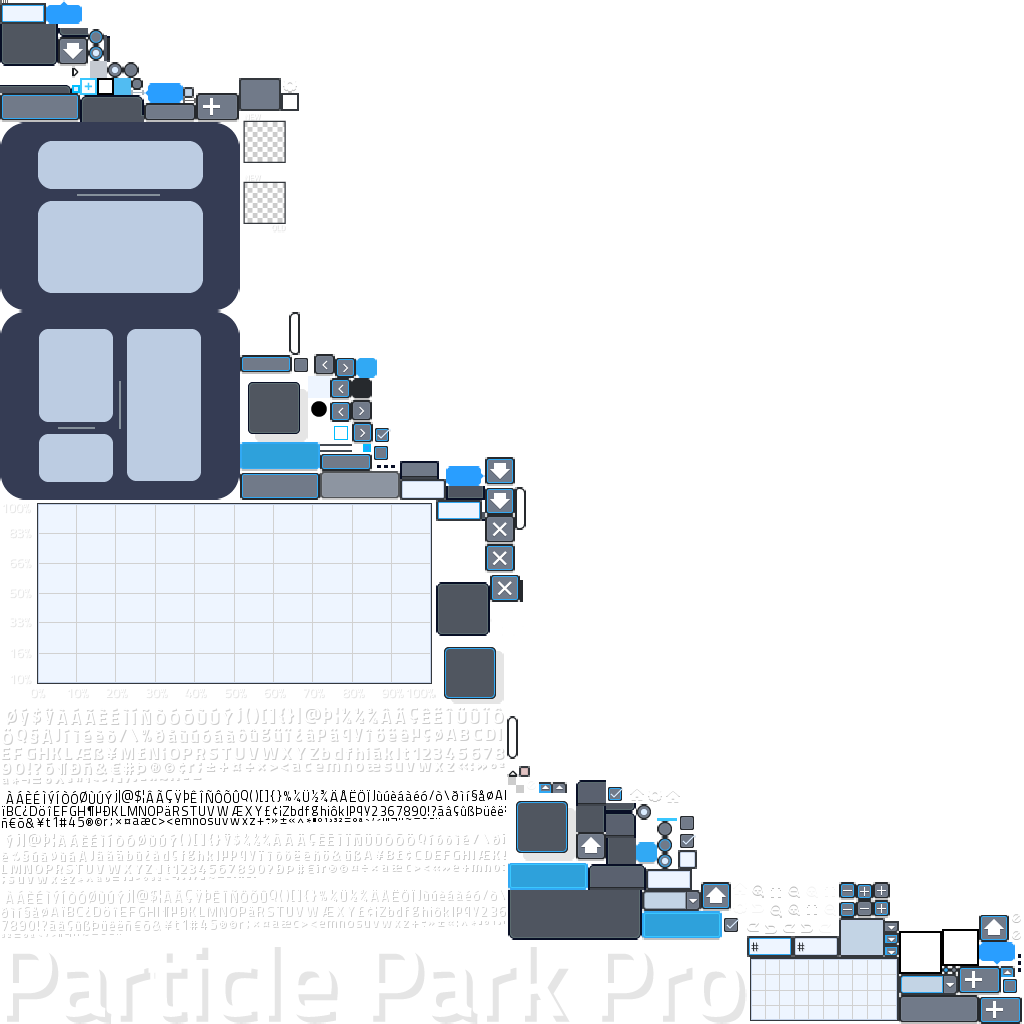
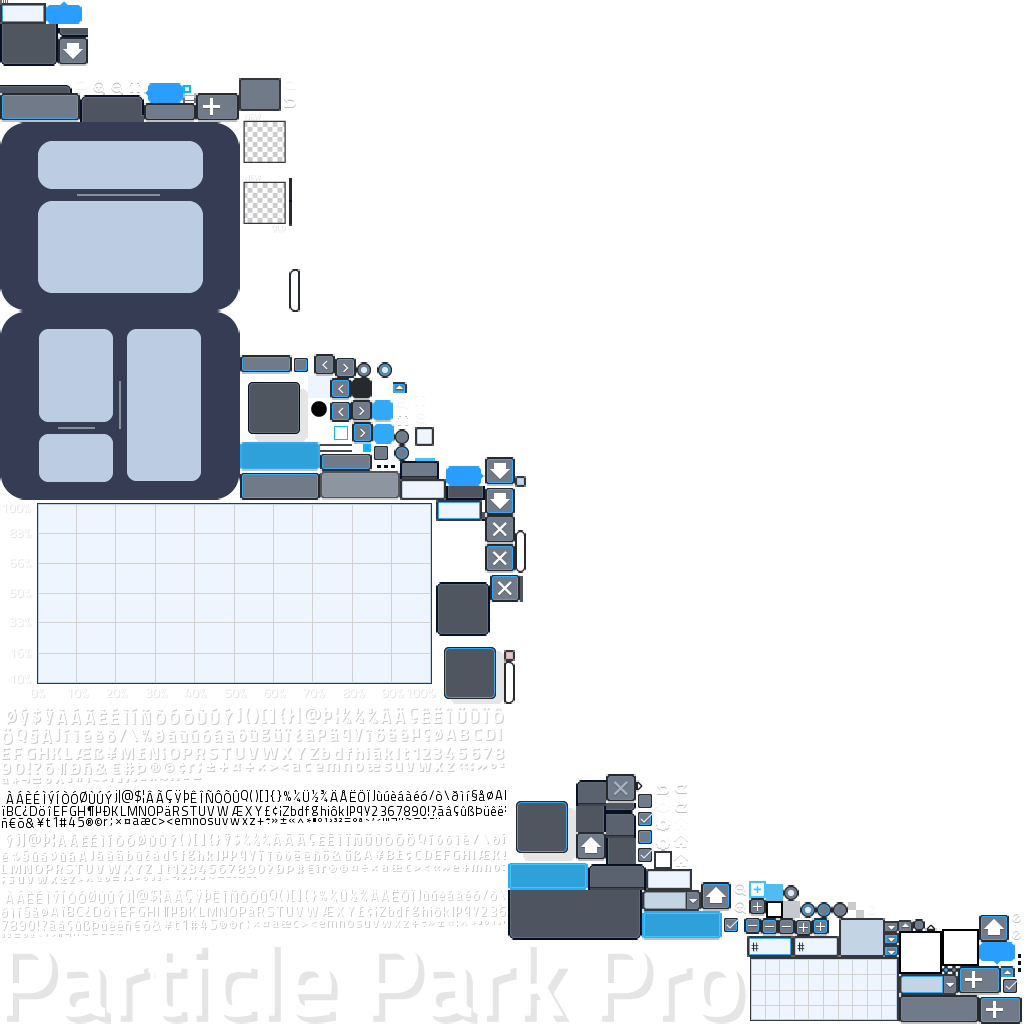
Added default particles to images subpanel and prevent removing all images.

diff --git a/core/src/main/java/com/ray3k/particleparkpro/widgets/subpanels/ImagesSubPanel.java b/core/src/main/java/com/ray3k/particleparkpro/widgets/subpanels/ImagesSubPanel.java
@@ -23,6 +23,7 @@ import static com.ray3k.particleparkpro.Settings.getDefaultImagePath;
 
 public class ImagesSubPanel extends Panel {
     private DraggableTextList list;
+    private Button removeButton;
 
     public ImagesSubPanel() {
         var listWidth = 210;
@@ -69,12 +70,32 @@ public class ImagesSubPanel extends Panel {
         table.add(textButton);
         addHandListener(textButton);
         addTooltip(textButton, "Set the image to the default round-faded image", Align.top, tooltipBottomArrowStyle);
+        onChange(textButton, () -> {
+            var fileHandle = Gdx.files.internal("particle.png");
+            var path = fileHandle.name();
+            selectedEmitter.getImagePaths().add(path);
+            fileHandles.put(path, fileHandle);
+            var sprite = new Sprite(new Texture(fileHandle));
+            sprites.put(path, sprite);
+            selectedEmitter.getSprites().add(sprite);
+            updateList();
+        });
 
         table.row();
         textButton = new TextButton("Default PMA", skin, "small");
         table.add(textButton);
         addHandListener(textButton);
         addTooltip(textButton, "Set the image to the default for premultiplied alpha", Align.top, tooltipBottomArrowStyle);
+        onChange(textButton, () -> {
+            var fileHandle = Gdx.files.internal("pre_particle.png");
+            var path = fileHandle.name();
+            selectedEmitter.getImagePaths().add(path);
+            fileHandles.put(path, fileHandle);
+            var sprite = new Sprite(new Texture(fileHandle));
+            sprites.put(path, sprite);
+            selectedEmitter.getSprites().add(sprite);
+            updateList();
+        });
 
         table = new Table();
         bodyTable.add(table);
@@ -112,11 +133,13 @@ public class ImagesSubPanel extends Panel {
         list.setProgrammaticChangeEvents(false);
         list.setTextAlignment(Align.left);
         list.align(Align.top);
-        updateList();
         addHandListener(list);
         list.addListener(new DraggableTextListListener() {
             @Override
             public void removed(String text) {
+                list.setAllowRemoval(list.getTexts().size > 1);
+                removeButton.setDisabled(!list.isAllowRemoval());
+
                 fileHandles.remove(text);
                 var sprite = sprites.get(text);
                 sprites.remove(text);
@@ -194,11 +217,12 @@ public class ImagesSubPanel extends Panel {
         });
 
         table.row();
-        button = new Button(skin, "cancel");
-        table.add(button);
-        addHandListener(button);
-        onChange(button, () -> {
+        removeButton = new Button(skin, "cancel");
+        table.add(removeButton);
+        addHandListener(removeButton);
+        onChange(removeButton, () -> {
             var paths = selectedEmitter.getImagePaths();
+            if (paths.size <= 1) return;
             var index = list.getSelectedIndex();
             paths.removeIndex(index);
 
@@ -211,7 +235,11 @@ public class ImagesSubPanel extends Panel {
             list.clearChildren();
             list.addAllTexts(paths);
             list.setSelected(index < list.getTexts().size ? index : list.getTexts().size - 1);
+            list.setAllowRemoval(list.getTexts().size > 1);
+            removeButton.setDisabled(!list.isAllowRemoval());
         });
+
+        updateList();
     }
 
     private void updateList() {
@@ -220,5 +248,7 @@ public class ImagesSubPanel extends Panel {
         for (var path : paths) {
             list.addText(path);
         }
+        list.setAllowRemoval(list.getTexts().size > 1);
+        removeButton.setDisabled(!list.isAllowRemoval());
     }
 }
